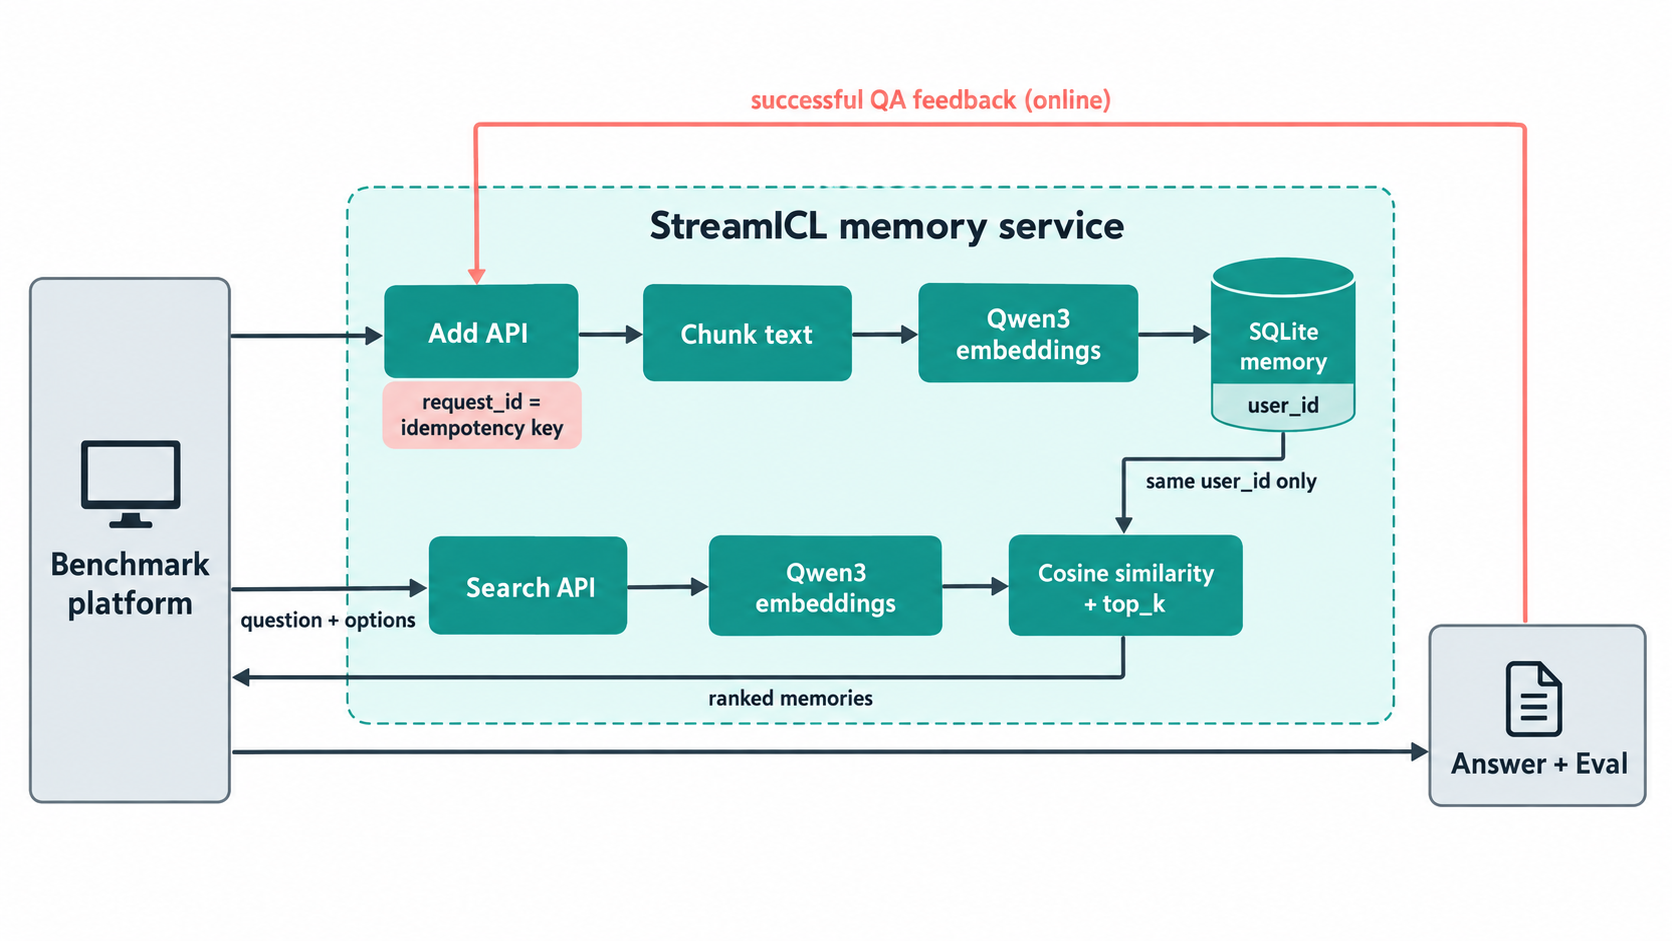
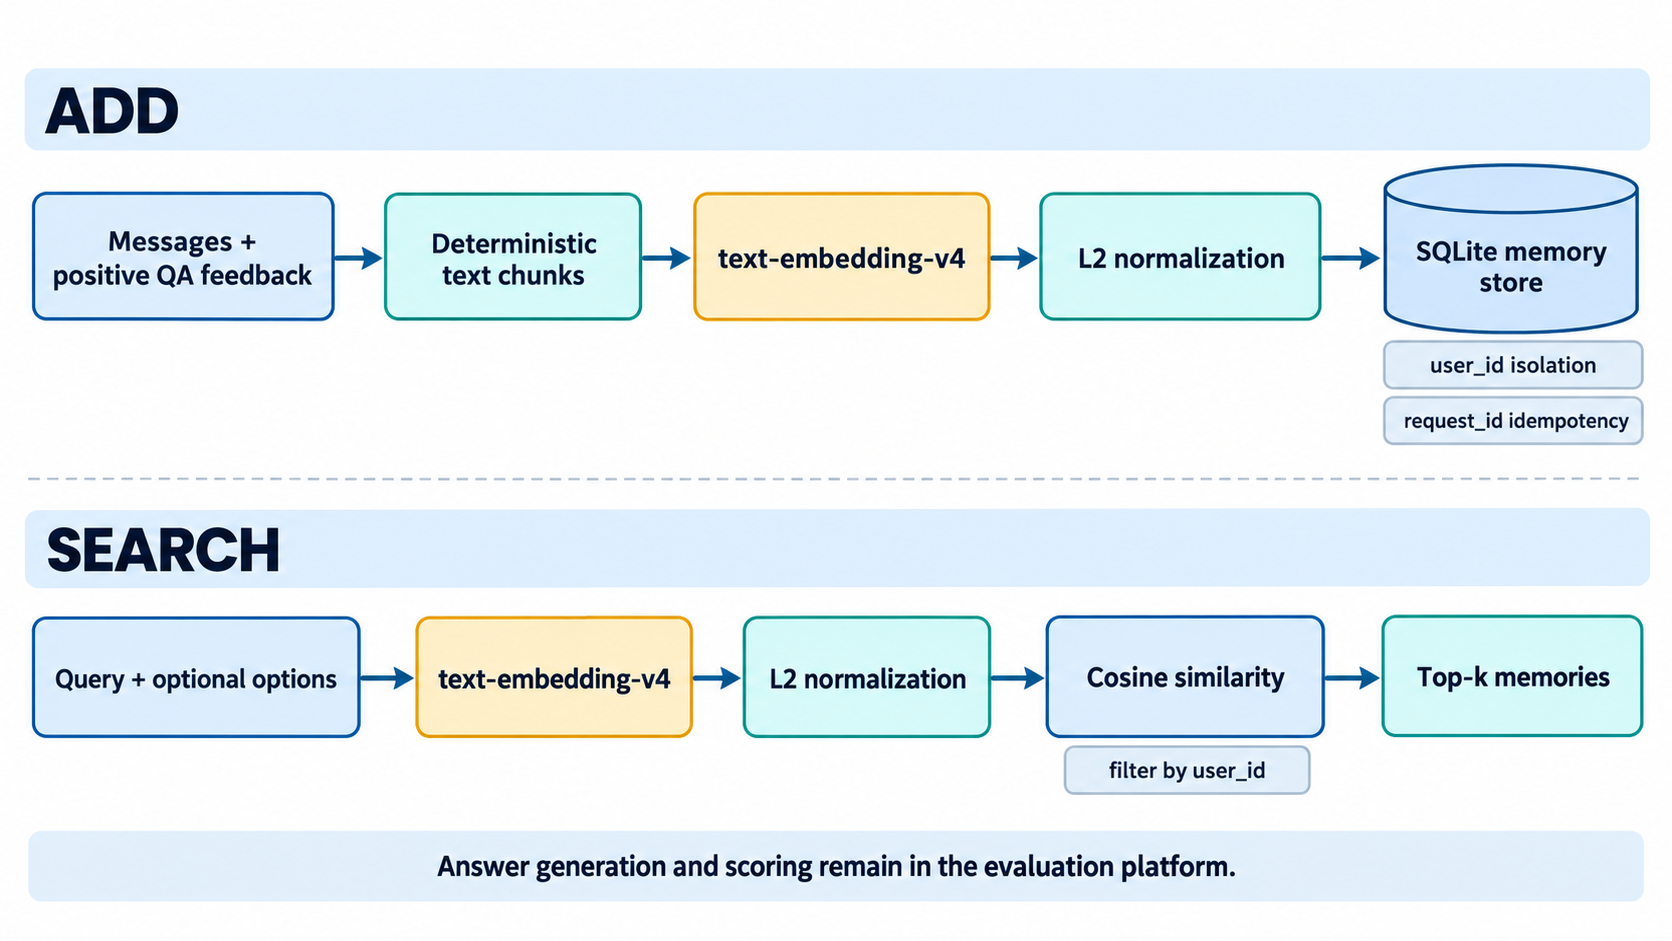
Use text-embedding-v4 for memory retrieval

diff --git a/participant_text_memory/app.py b/participant_text_memory/app.py
@@ -4,18 +4,22 @@ import asyncio
 import hashlib
 import heapq
 import json
+import math
 import os
 import secrets
 import sqlite3
+from contextlib import asynccontextmanager
 from datetime import datetime, timezone
 from pathlib import Path
 from typing import Literal, Protocol
 
+import httpx
 from fastapi import Depends, FastAPI, Header, HTTPException
-from pydantic import BaseModel, ConfigDict, Field
+from pydantic import BaseModel, ConfigDict, Field, ValidationError
 
 
-EMBEDDING_MODEL = "BAAI/bge-small-en-v1.5"
+EMBEDDING_MODEL = "text-embedding-v4"
+EMBEDDING_MAX_CHARS = 8000
 
 
 class Message(BaseModel):
@@ -53,49 +57,60 @@ class Embedder(Protocol):
     def pieces(self, text: str) -> list[str]: ...
 
 
-class LocalEmbedder:
+class EmbeddingItem(BaseModel):
+    index: int
+    embedding: list[float]
+
+
+class EmbeddingResponse(BaseModel):
+    data: list[EmbeddingItem]
+
+
+class OpenAICompatibleEmbedder:
     model_name = EMBEDDING_MODEL
 
-    def __init__(self, model_path: Path) -> None:
-        if not model_path.is_dir():
-            raise RuntimeError(f"local embedding model directory not found: {model_path}")
-        from sentence_transformers import SentenceTransformer
-
-        self.model = SentenceTransformer(str(model_path), device="cpu", local_files_only=True)
-        self.max_tokens = self.model.max_seq_length - self.model.tokenizer.num_special_tokens_to_add(pair=False)
-        if self.max_tokens < 1:
-            raise RuntimeError("embedding model has no usable token capacity")
-        self.lock = asyncio.Lock()
+    def __init__(
+        self, base_url: str, api_key: str, *, client: httpx.AsyncClient | None = None
+    ) -> None:
+        if not base_url or not api_key:
+            raise RuntimeError("OPENAI_EMBEDDING_API_BASE and OPENAI_EMBEDDING_API_KEY are required")
+        self.endpoint = base_url.rstrip("/") + "/embeddings"
+        self.api_key = api_key
+        self.client = client or httpx.AsyncClient(timeout=60)
+        self.owns_client = client is None
 
     async def embed(self, texts: list[str]) -> list[list[float]]:
-        async with self.lock:
-            vectors = await asyncio.to_thread(
-                self.model.encode,
-                texts,
-                batch_size=8,
-                normalize_embeddings=True,
-                show_progress_bar=False,
-            )
-        return vectors.tolist()
+        vectors = []
+        for start in range(0, len(texts), 10):
+            batch = texts[start : start + 10]
+            try:
+                response = await self.client.post(
+                    self.endpoint,
+                    headers={"Authorization": f"Bearer {self.api_key}"},
+                    json={"model": self.model_name, "input": batch},
+                )
+                response.raise_for_status()
+                items = sorted(
+                    EmbeddingResponse.model_validate_json(response.content).data,
+                    key=lambda item: item.index,
+                )
+            except (httpx.HTTPError, ValidationError) as exc:
+                raise RuntimeError("embedding request failed") from exc
+            if [item.index for item in items] != list(range(len(batch))):
+                raise RuntimeError("embedding response does not match input")
+            for item in items:
+                norm = math.sqrt(sum(value * value for value in item.embedding))
+                if norm == 0:
+                    raise RuntimeError("embedding response contains a zero vector")
+                vectors.append([value / norm for value in item.embedding])
+        return vectors
 
     def pieces(self, text: str) -> list[str]:
-        offsets = self.model.tokenizer(
-            text, add_special_tokens=False, truncation=False, return_offsets_mapping=True
-        )["offset_mapping"]
-        return _token_pieces(text, offsets, self.max_tokens)
+        return [text[i : i + EMBEDDING_MAX_CHARS] for i in range(0, len(text), EMBEDDING_MAX_CHARS)]
 
-
-def _token_pieces(text: str, offsets: list[tuple[int, int]], max_tokens: int) -> list[str]:
-    if not offsets:
-        return [text]
-    pieces = []
-    start = 0
-    for offset in range(max_tokens, len(offsets), max_tokens):
-        end = offsets[offset - 1][1]
-        pieces.append(text[start:end])
-        start = end
-    pieces.append(text[start:])
-    return pieces
+    async def close(self) -> None:
+        if self.owns_client:
+            await self.client.aclose()
 
 
 def _feedback_experience(content: str) -> str | None:
@@ -231,9 +246,14 @@ def _rank_memories(
 def create_app(
     *, store: MemoryStore | None = None, embedder: Embedder | None = None, api_key: str | None = None
 ) -> FastAPI:
-    resolved_embedder = embedder or LocalEmbedder(
-        Path(os.environ.get("LOCAL_EMBEDDING_MODEL_PATH", "models/bge-small-en-v1.5"))
-    )
+    owned_embedder = None
+    if embedder is None:
+        owned_embedder = OpenAICompatibleEmbedder(
+            os.environ.get("OPENAI_EMBEDDING_API_BASE", "").strip(),
+            os.environ.get("OPENAI_EMBEDDING_API_KEY", "").strip(),
+        )
+    resolved_embedder = embedder or owned_embedder
+    assert resolved_embedder is not None
     resolved_store = store or MemoryStore(
         Path(os.environ.get("PARTICIPANT_MEMORY_DATABASE", Path(__file__).parent / "data" / "memory.db")),
         resolved_embedder.model_name,
@@ -242,7 +262,16 @@ def create_app(
     if not resolved_key:
         raise RuntimeError("PARTICIPANT_MEMORY_API_KEY is required")
 
-    app = FastAPI(title="Participant Text Memory", docs_url=None, redoc_url=None, openapi_url=None)
+    @asynccontextmanager
+    async def lifespan(_: FastAPI):
+        yield
+        if owned_embedder is not None:
+            await owned_embedder.close()
+
+    app = FastAPI(
+        title="Participant Text Memory", docs_url=None, redoc_url=None,
+        openapi_url=None, lifespan=lifespan,
+    )
 
     def authorize(
         authorization: str | None = Header(default=None),

diff --git a/tests/test_app.py b/tests/test_app.py
@@ -1,12 +1,11 @@
 import asyncio
 import json
-import sys
 from pathlib import Path
-from types import SimpleNamespace
 
+import httpx
 from fastapi.testclient import TestClient
 
-from participant_text_memory.app import AddRequest, LocalEmbedder, MemoryStore, _memory_items, _token_pieces, create_app
+from participant_text_memory.app import AddRequest, MemoryStore, OpenAICompatibleEmbedder, _memory_items, create_app
 
 
 class FakeEmbedder:
@@ -131,45 +130,35 @@ def test_positive_feedback_only_and_long_text_chunks(tmp_path: Path) -> None:
     assert all(len(piece[2]) <= 4000 for piece in pieces)
 
 
-def test_token_chunks_preserve_text() -> None:
-    text = "  alpha  beta\ngamma   delta  "
-    offsets = [(2, 7), (9, 13), (14, 19), (22, 27)]
-    chunks = _token_pieces(text, offsets, 2)
-    assert chunks == ["  alpha  beta", "\ngamma   delta  "]
-    assert "".join(chunks) == text
-    assert _token_pieces("   ", [], 2) == ["   "]
+def test_openai_compatible_embedder() -> None:
+    batch_sizes = []
 
+    async def handle(request: httpx.Request) -> httpx.Response:
+        assert request.url == "https://embedding.example/v1/embeddings"
+        assert request.headers["Authorization"] == "Bearer embedding-key"
+        payload = json.loads(request.content)
+        assert payload["model"] == "text-embedding-v4"
+        batch_sizes.append(len(payload["input"]))
+        return httpx.Response(
+            200,
+            json={
+                "data": [
+                    {"index": index, "embedding": [3.0, 4.0]}
+                    for index in reversed(range(len(payload["input"])))
+                ]
+            },
+        )
 
-def test_local_embedder_uses_downloaded_model(tmp_path: Path, monkeypatch) -> None:
-    class Tokenizer:
-        def num_special_tokens_to_add(self, *, pair: bool) -> int:
-            assert not pair
-            return 2
+    async def run() -> None:
+        client = httpx.AsyncClient(transport=httpx.MockTransport(handle))
+        embedder = OpenAICompatibleEmbedder(
+            "https://embedding.example/v1", "embedding-key", client=client
+        )
+        vectors = await embedder.embed([f"text-{index}" for index in range(11)])
+        assert vectors == [[0.6, 0.8]] * 11
+        assert batch_sizes == [10, 1]
+        text = "a" * 8001
+        assert embedder.pieces(text) == ["a" * 8000, "a"]
+        await client.aclose()
 
-        def __call__(self, text: str, **kwargs):
-            assert kwargs == {
-                "add_special_tokens": False, "truncation": False, "return_offsets_mapping": True
-            }
-            return {"offset_mapping": [(i, i + 1) for i in range(len(text))]}
-
-    class Vectors:
-        def tolist(self):
-            return [[1.0, 0.0]]
-
-    class Model:
-        max_seq_length = 4
-        tokenizer = Tokenizer()
-
-        def __init__(self, path: str, **kwargs):
-            assert path == str(tmp_path)
-            assert kwargs == {"device": "cpu", "local_files_only": True}
-
-        def encode(self, texts: list[str], **kwargs):
-            assert texts == ["ab"]
-            assert kwargs["normalize_embeddings"] is True
-            return Vectors()
-
-    monkeypatch.setitem(sys.modules, "sentence_transformers", SimpleNamespace(SentenceTransformer=Model))
-    embedder = LocalEmbedder(tmp_path)
-    assert embedder.pieces("abcde") == ["ab", "cd", "e"]
-    assert asyncio.run(embedder.embed(["ab"])) == [[1.0, 0.0]]
+    asyncio.run(run())

diff --git a/README.md b/README.md
@@ -1,17 +1,31 @@
 # StreamICL-inspired Text Memory API
 
-This repository contains a text-only Add/Search memory service for Agent Memory Leaderboard. It is inspired by StreamICL, but it is not a reproduction of the original algorithm. The evaluation platform owns answer generation and scoring; this service only stores and retrieves memory.
+This repository provides a text-only Add/Search memory service for Agent Memory Leaderboard. It is inspired by StreamICL, but it is not a reproduction of Self-StreamICL. The evaluation platform owns answer generation and scoring; this service only stores and retrieves memory.
 
 ## Method
 
-![Add and Search flow of the StreamICL-inspired memory service](docs/method-overview-local.png)
+![Add and Search flow of the StreamICL-inspired memory service](docs/method-overview.png)
 
-- Add splits source messages at the local model's token limit. Positive-score Streaming QA feedback is stored as a question-answer example; nonpositive feedback is acknowledged but not indexed.
-- `BAAI/bge-small-en-v1.5` runs locally on CPU. Neither Add text nor Search queries go to an embedding API.
-- SQLite stores text, unit-normalized vectors, and Add request IDs. Search ranks all memories belonging to the exact `user_id` by cosine similarity and returns at most the requested `top_k`. Multiple-choice `options`, when present, are included in the embedding query.
+- Add divides text into deterministic chunks of at most 8,000 characters. Positive-score Streaming QA feedback is stored as a question-answer example; nonpositive feedback is acknowledged but not indexed.
+- Every chunk is embedded through an OpenAI-compatible embeddings endpoint with the fixed model `text-embedding-v4`. Returned vectors are L2-normalized before storage and ranking.
+- SQLite stores text, normalized vectors, and Add request IDs. Memories are isolated by exact `user_id`.
+- Search embeds the question and any top-level multiple-choice `options`, ranks the user's memories by cosine similarity, and returns at most the requested `top_k`.
 - Add is synchronous: HTTP 200 is returned only after embeddings and SQLite writes complete. Repeating an identical `request_id` is idempotent; reusing one for a different payload returns HTTP 409.
 
-Compared with the original StreamICL baseline, this implementation uses SQLite and an in-process scan instead of FAISS, message chunks and positive-feedback examples instead of question-keyed full trajectories, and caller-provided `top_k` instead of a fixed top four. It does not assemble prompts or call an answer LLM.
+The StreamBench Self-StreamICL reference is a complete answering agent: it indexes only correct self-generated answers by question, retrieves them with BGE and FAISS, and inserts the retrieved examples into the next answer prompt. This service instead exposes the leaderboard Add/Search boundary, persists source-message chunks and positive-feedback examples, and leaves prompt construction and answer generation to the evaluation platform. It does not call an LLM, so no LLM model is configured here; its embedding component uses `text-embedding-v4`.
+
+## Configuration
+
+Copy `.env.example` to `.env.local` and set these values:
+
+```dotenv
+PARTICIPANT_MEMORY_API_KEY=replace-with-a-random-secret-of-at-least-32-characters
+OPENAI_EMBEDDING_API_BASE=https://dashscope.aliyuncs.com/compatible-mode/v1
+OPENAI_EMBEDDING_API_KEY=replace-with-your-embedding-api-key
+PARTICIPANT_MEMORY_DATABASE=participant_text_memory/data/text_embedding_v4_memory.db
+```
+
+`OPENAI_EMBEDDING_API_BASE` must be the OpenAI-compatible API root that contains `/embeddings`; do not append `/embeddings` itself. Keep both API keys private. Use a new SQLite database whenever the embedding model changes because vectors from different models cannot be mixed.
 
 ## Run locally
 
@@ -20,18 +34,17 @@ Requires Python 3.10 or newer. From the repository root in PowerShell:
 ```powershell
 python -m venv .venv
 .\.venv\Scripts\python -m pip install -r requirements.txt
-.\.venv\Scripts\python -c "from huggingface_hub import snapshot_download; snapshot_download(repo_id='BAAI/bge-small-en-v1.5', local_dir='models/bge-small-en-v1.5', ignore_patterns=['*.bin', 'onnx/*', 'openvino/*'])"
 Copy-Item .env.example .env.local
 .\.venv\Scripts\python -c "import secrets; print(secrets.token_hex(32))"
 ```
 
-Put the generated secret in `.env.local` as `PARTICIPANT_MEMORY_API_KEY`, then run:
+Put the generated secret and the embedding API credentials in `.env.local`, then run:
 
 ```powershell
 .\start.ps1
 ```
 
-The service listens on `http://127.0.0.1:8094`. The startup script does not create a public tunnel. Keep the API key private. Use a new SQLite database when switching embedding models; vectors from the previous Qwen model cannot be mixed with local BGE vectors.
+The service listens on `http://127.0.0.1:8094`. The startup script does not create a public tunnel.
 
 ## Deploy on Ubuntu 22.04
 
@@ -44,16 +57,14 @@ git clone https://github.com/solomoon313/StreamICL.git
 cd StreamICL
 python3 -m venv .venv
 .venv/bin/pip install --upgrade pip
-.venv/bin/pip install torch --index-url https://download.pytorch.org/whl/cpu
 .venv/bin/pip install -r requirements.txt
-.venv/bin/python -c "from huggingface_hub import snapshot_download; snapshot_download(repo_id='BAAI/bge-small-en-v1.5', local_dir='models/bge-small-en-v1.5', ignore_patterns=['*.bin', 'onnx/*', 'openvino/*'])"
 cp .env.example .env.local
 .venv/bin/python -c 'import secrets; print(secrets.token_hex(32))'
 nano .env.local
 chmod 600 .env.local
 ```
 
-Replace `PARTICIPANT_MEMORY_API_KEY` with the generated secret. Keep the model and database paths from the example. Never paste the secret into a screenshot, issue, or Git commit. The service loads the model only from disk after it is downloaded. See [Hugging Face's download documentation](https://huggingface.co/docs/huggingface_hub/guides/download).
+Set `PARTICIPANT_MEMORY_API_KEY`, `OPENAI_EMBEDDING_API_BASE`, and `OPENAI_EMBEDDING_API_KEY` in `.env.local`. Keep `PARTICIPANT_MEMORY_DATABASE` on the new `text_embedding_v4_memory.db` path.
 
 Install and start the persistent service:
 
@@ -96,7 +107,7 @@ Add requires `request_id`, `messages` (`role`, nonempty string `content`, option
 .\.venv\Scripts\python -m pytest tests -q
 ```
 
-The SQLite database defaults to `participant_text_memory/data/bge_memory.db` with the example configuration and is ignored by Git. Do not log or publish evaluation payloads or keys. Delete evaluation data within 30 days after a run unless the platform grants written permission to retain it longer. This implementation has not been load-tested for a full public evaluation.
+The SQLite database is ignored by Git. Add text and Search queries are sent to the configured embedding provider, so that provider and its logging policy must satisfy the evaluation's privacy requirements. Do not log or publish evaluation payloads or keys. Delete evaluation data within 30 days after a run unless the platform grants written permission to retain it longer.
 
 ## Attribution
 
